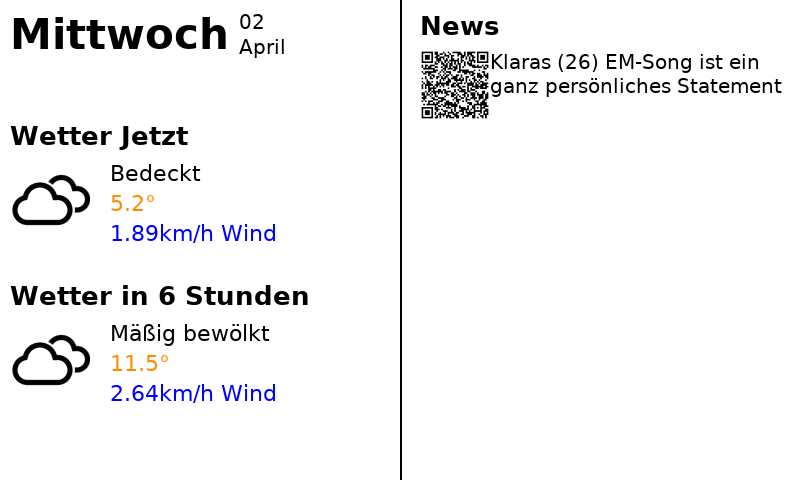
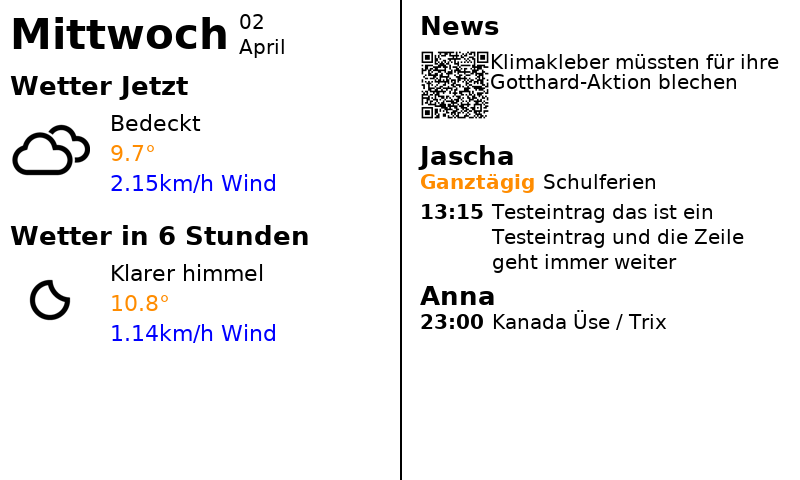
Google Kalender hinzugefügt

diff --git a/app.py b/app.py
@@ -1,7 +1,8 @@
-from PIL import Image, ImageDraw, ImageFont
+from PIL import Image, ImageDraw, ImageFont, Image
 from datetime import datetime
 from weather import fetch_weather, fetch_weather_later
 from icon_helper import get_icon_path
+from calendar_helper import get_today_events_grouped
 import locale
 import feedparser
 import qrcode
@@ -19,7 +20,7 @@ def draw_wrapped_text(draw, text, font, max_width, position, line_spacing=5, fil
         else:
             lines.append(line)
             line = word
-    lines.append(line)  # letzte Zeile
+    lines.append(line)
 
     x, y = position
     for line in lines:
@@ -28,52 +29,83 @@ def draw_wrapped_text(draw, text, font, max_width, position, line_spacing=5, fil
         line_height = bbox[3] - bbox[1]
         y += line_height + line_spacing
 
-# Sprache für Datum setzen (für Windows)
-locale.setlocale(locale.LC_TIME, "deu_deu")  # oder "German_Germany"
+def draw_calendar_entry(draw, entry, fonts, position, max_width=360, spacing=5):
+    font_bold, font_regular = fonts
+    x, y = position
 
-# Farben
+    # Zeit & Farbe bestimmen
+    if entry.startswith("Ganztägig"):
+        time_part = "Ganztägig"
+        desc_part = entry[len("Ganztägig - "):]
+        time_color = (255, 140, 0)
+    else:
+        time_part, desc_part = entry.split(" - ", 1)
+        time_color = "black"
+
+    # Uhrzeit zeichnen
+    draw.text((x, y), time_part, font=font_bold, fill=time_color)
+    time_bbox = draw.textbbox((x, y), time_part, font=font_bold)
+    time_width = time_bbox[2] - time_bbox[0]
+    text_x = x + time_width + 8  # etwas Abstand
+
+    # Beschreibung umbrechen
+    words = desc_part.split()
+    line = ""
+    lines = []
+    for word in words:
+        test_line = f"{line} {word}".strip()
+        test_bbox = draw.textbbox((0, 0), test_line, font=font_regular)
+        test_width = test_bbox[2] - test_bbox[0]
+        if test_width + time_width + 8 <= max_width:
+            line = test_line
+        else:
+            lines.append(line)
+            line = word
+    lines.append(line)
+
+    # Alle Zeilen der Beschreibung zeichnen
+    for i, line in enumerate(lines):
+        draw_y = y + i * (font_regular.size + spacing)
+        draw.text((text_x, draw_y), line, font=font_regular, fill="black")
+
+    # Gesamthöhe zurückgeben (für y += ...)
+    return y + len(lines) * (font_regular.size + spacing)
+
+
+locale.setlocale(locale.LC_TIME, "deu_deu")
+
 BLACK = "black"
 BLUE = (0, 0, 255)
 ORANGE = (255, 140, 0)
 
-# Display-Größe
 resolution = (800, 480)
 img = Image.new("RGB", resolution, color="white")
 draw = ImageDraw.Draw(img)
 
-# Mittellinie zeichnen
 middle_x = resolution[0] // 2
 draw.line([(middle_x, 0), (middle_x, resolution[1])], fill="black", width=2)
 
-# Schriftarten
 font_big = ImageFont.truetype("static/fonts/DejaVuSans-Bold.ttf", 42)
 font_day = ImageFont.truetype("static/fonts/DejaVuSans.ttf", 20)
 font_label = ImageFont.truetype("static/fonts/DejaVuSans-Bold.ttf", 26)
 font_value = ImageFont.truetype("static/fonts/DejaVuSans.ttf", 22)
 
-# Datum oben links
 today = datetime.now()
-weekday = today.strftime("%A")  # z. B. "Mittwoch"
+weekday = today.strftime("%A")
 day = today.strftime("%d")
-month = today.strftime("%B")    # z. B. "Apr"
+month = today.strftime("%B")
 
-# Wochentag zeichnen
 draw.text((10, 10), weekday, font=font_big, fill=BLACK)
-
-# Breite des Textes exakt berechnen
 bbox = draw.textbbox((10, 10), weekday, font=font_big)
 text_width = bbox[2] - bbox[0]
-x_date = 10 + text_width + 10  # Abstand von 10px
+x_date = 10 + text_width + 10
 
-# Tag und Monat übereinander zeichnen
-draw.text((x_date, 10), day, font=font_day, fill=BLACK)       # oben
-draw.text((x_date, 35), month, font=font_day, fill=BLACK)     # unten
+draw.text((x_date, 10), day, font=font_day, fill=BLACK)
+draw.text((x_date, 35), month, font=font_day, fill=BLACK)
 
-# Wetterdaten laden
 weather_now = fetch_weather()
 weather_later = fetch_weather_later()
 
-# Funktion: PNG-Icon einfügen
 def paste_png(draw_img, png_path, position, size=(80, 80)):
     try:
         icon = Image.open(png_path).convert("RGBA").resize(size)
@@ -81,58 +113,62 @@ def paste_png(draw_img, png_path, position, size=(80, 80)):
     except Exception as e:
         print(f"Fehler beim Laden des Icons: {e}")
 
-# Abschnitt: Wetter jetzt
-draw.text((10, 120), "Wetter Jetzt", font=font_label, fill=BLACK)
-paste_png(img, get_icon_path(weather_now['icon']), (10, 160))
-draw.text((110, 160), weather_now["description"], font=font_value, fill=BLACK)
-draw.text((110, 190), f"{weather_now['temperature']}°", font=font_value, fill=ORANGE)
-draw.text((110, 220), f"{weather_now['wind']} Wind", font=font_value, fill=BLUE)
+draw.text((10, 70), "Wetter Jetzt", font=font_label, fill=BLACK)
+paste_png(img, get_icon_path(weather_now['icon']), (10, 110))
+draw.text((110, 110), weather_now["description"], font=font_value, fill=BLACK)
+draw.text((110, 140), f"{weather_now['temperature']}°", font=font_value, fill=ORANGE)
+draw.text((110, 170), f"{weather_now['wind']} Wind", font=font_value, fill=BLUE)
+#draw.text((110, 200), f"{weather_now['rain']} Regen", font=font_value, fill=BLUE)
 
-# Abschnitt: Wetter in 6 Stunden
-draw.text((10, 280), "Wetter in 6 Stunden", font=font_label, fill=BLACK)
-paste_png(img, get_icon_path(weather_later['icon']), (10, 320))
-draw.text((110, 320), weather_later["description"], font=font_value, fill=BLACK)
-draw.text((110, 350), f"{weather_later['temperature']}°", font=font_value, fill=ORANGE)
-draw.text((110, 380), f"{weather_later['wind']} Wind", font=font_value, fill=BLUE)
+draw.text((10, 220), "Wetter in 6 Stunden", font=font_label, fill=BLACK)
+paste_png(img, get_icon_path(weather_later['icon']), (10, 260))
+draw.text((110, 260), weather_later["description"], font=font_value, fill=BLACK)
+draw.text((110, 290), f"{weather_later['temperature']}°", font=font_value, fill=ORANGE)
+draw.text((110, 320), f"{weather_later['wind']} Wind", font=font_value, fill=BLUE)
+#draw.text((110, 350), f"{weather_later['rain']} Regen", font=font_value, fill=BLUE)
 
-# RSS-Feed-URL
 rss_url = "https://partner-feeds.beta.20min.ch/rss/20minuten/zentralschweiz"
-
-# Feed parsen
 feed = feedparser.parse(rss_url)
-
-# Ersten Artikel extrahieren
 first_entry = feed.entries[0]
 news_title = first_entry.title
 
-# Schriftarten
 font_news_title = ImageFont.truetype("static/fonts/DejaVuSans-Bold.ttf", 26)
 font_news_content = ImageFont.truetype("static/fonts/DejaVuSans.ttf", 20)
 
-# Positionen
 news_x = middle_x + 20
 news_y = 10
 
 draw.text((news_x, news_y), "News", font=font_news_title, fill="black")
 
-# QR-Code aus dem Artikel-Link generieren
-qr = qrcode.QRCode(box_size=2, border=1)  # kompakter QR
+qr = qrcode.QRCode(box_size=2, border=1)
 qr.add_data(first_entry.link)
 qr.make(fit=True)
-
 qr_img = qr.make_image(fill_color="black", back_color="white").convert("RGB")
-qr_img = qr_img.resize((70, 70))  # optional skalieren
-
-# QR-Code auf dem Dashboard einfügen
+qr_img = qr_img.resize((70, 70))
 qr_position = (news_x, news_y + 40)
 img.paste(qr_img, qr_position)
 
-# Text daneben setzen
-text_offset_x = qr_position[0] + 70  # 60 + 10 Abstand
+text_offset_x = qr_position[0] + 70
 text_offset_y = qr_position[1]
 draw_wrapped_text(draw, news_title, font_news_content, max_width=300, position=(text_offset_x, text_offset_y))
 
+# Kalender anzeigen (mehrere Kalender mit Überschriften)
+calendar_ids = {
+    "Jascha": "primary",
+    "Anna": "anna.rueegg34@gmail.com"
+}
+grouped_events = get_today_events_grouped(calendar_ids)
 
-# Bild anzeigen/speichern
+# Fonts definieren
+font_news_time = ImageFont.truetype("static/fonts/DejaVuSans-Bold.ttf", 20)
+
+y = 140
+for header, entries in grouped_events:
+    draw.text((news_x, y), header, font=font_news_title, fill="black")
+    y += 30
+    for entry in entries:
+        y = draw_calendar_entry(draw, entry, (font_news_time, font_news_content), (news_x, y))
+        y += 5  # zusätzlicher Abstand zwischen Einträgen
+
 img.save("dashboard_simulation.png")
 img.show()

diff --git a/calendar_helper.py b/calendar_helper.py
@@ -1,0 +1,59 @@
+import datetime
+import os.path
+from google.oauth2.credentials import Credentials
+from google_auth_oauthlib.flow import InstalledAppFlow
+from googleapiclient.discovery import build
+from google.auth.transport.requests import Request
+
+# Zugriff nur lesend
+SCOPES = ['https://www.googleapis.com/auth/calendar.readonly']
+
+def get_today_events_grouped(calendar_dict):
+    """
+    calendar_dict: dict mit { "Anzeigename": "calendar_id" }
+    Rückgabe: Liste von (Überschrift, [Eintrag1, Eintrag2, ...])
+    """
+    creds = None
+    if os.path.exists('token.json'):
+        creds = Credentials.from_authorized_user_file('token.json', SCOPES)
+    if not creds or not creds.valid:
+        if creds and creds.expired and creds.refresh_token:
+            creds.refresh(Request())
+        else:
+            flow = InstalledAppFlow.from_client_secrets_file('credentials.json', SCOPES)
+            creds = flow.run_local_server(port=0)
+        with open('token.json', 'w') as token:
+            token.write(creds.to_json())
+
+    service = build('calendar', 'v3', credentials=creds)
+
+    now = datetime.datetime.utcnow()
+    start_of_day = now.replace(hour=0, minute=0, second=0, microsecond=0).isoformat() + 'Z'
+    end_of_day = now.replace(hour=23, minute=59, second=59, microsecond=999999).isoformat() + 'Z'
+
+    grouped_events = []
+
+    for label, calendar_id in calendar_dict.items():
+        events_result = service.events().list(
+            calendarId=calendar_id,
+            timeMin=start_of_day,
+            timeMax=end_of_day,
+            maxResults=10,
+            singleEvents=True,
+            orderBy='startTime'
+        ).execute()
+
+        events = events_result.get('items', [])
+        formatted = []
+        for event in events:
+            if 'dateTime' in event['start']:
+                time = datetime.datetime.fromisoformat(event['start']['dateTime']).strftime('%H:%M')
+            else:
+                time = "Ganztägig"
+            title = event.get('summary', 'Ohne Titel')
+            formatted.append(f"{time} - {title}")
+        
+        if formatted:
+            grouped_events.append((label, formatted))
+
+    return grouped_events

diff --git a/weather.py b/weather.py
@@ -17,11 +17,14 @@ def _fetch_weather_at_index(index):
             raise Exception(data.get("message", "Fehler beim Abruf"))
 
         item = data["list"][index]
+        rain = item.get("rain", {}).get("3h", 0)  # Regenmenge in mm
+
         return {
             "temperature": round(item["main"]["temp"], 1),
             "description": item["weather"][0]["description"].capitalize(),
             "wind": f"{item['wind']['speed']}km/h",
-            "icon": item["weather"][0]["icon"]
+            "icon": item["weather"][0]["icon"],
+            #"rain": f"{rain} mm" if rain > 0 else "0 mm"
         }
 
     except Exception as e:

diff --git a/README.md b/README.md
@@ -49,6 +49,3 @@ Die News werden aus diesem RSS-Feed geladen:
 
 > Beispielbild folgt
 
----
-
-Wenn du das Projekt später auf den Raspberry Pi bringst, kannst du die Ausgabe direkt auf dem E-Ink-Display anzeigen.
